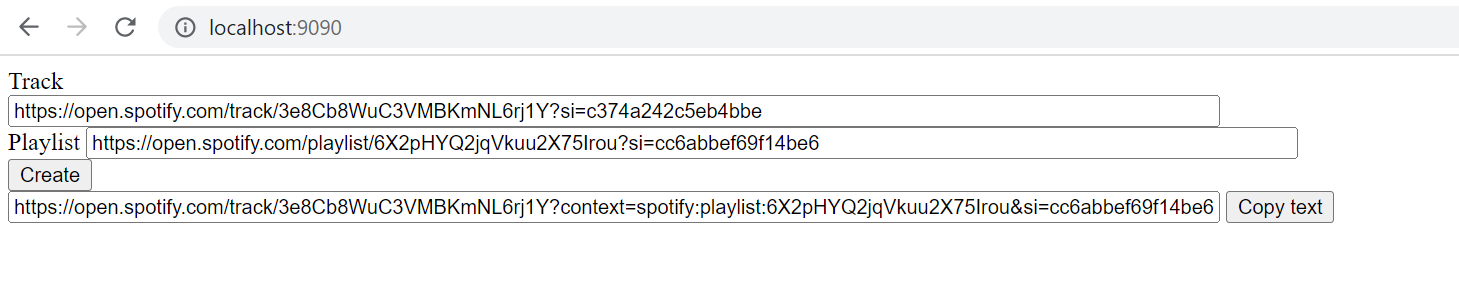
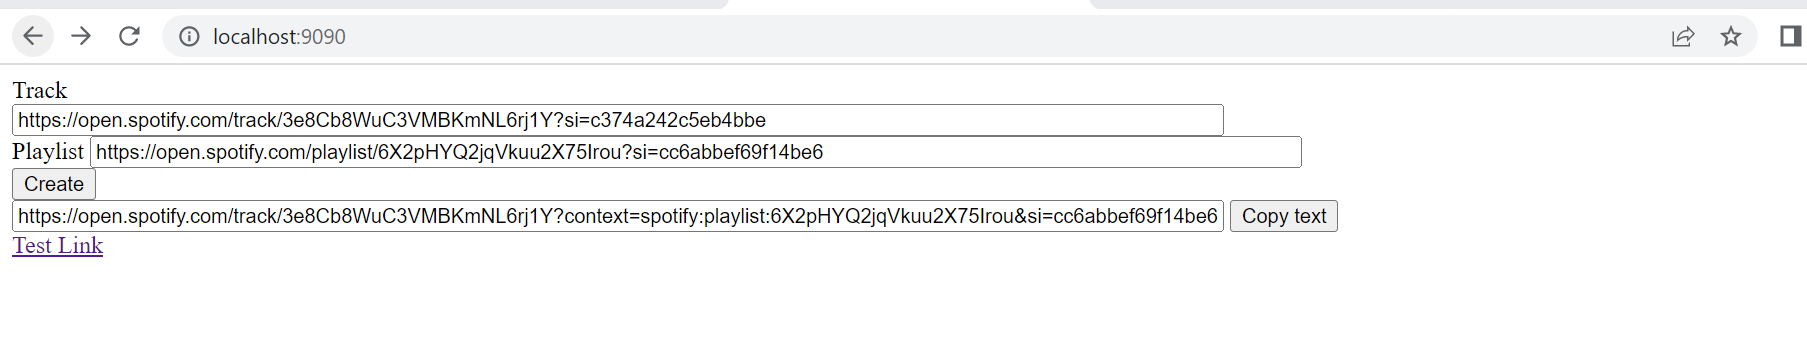
More

Changed region(s): [[0.0, 0.0623, 1.0, 0.7785], [0.0, 0.0623, 0.2467, 0.1246]]

diff --git a/index.html b/index.html
@@ -46,6 +46,9 @@
           result = GetTrackPlaylistUrl(playlist, track);
           resultElmt = document.getElementById("result")
           resultElmt.value = result
+
+          resultLink = document.getElementById("result_link")
+          resultLink.href = result
         }
     </script>
 </head>
@@ -64,6 +67,9 @@
     <div>
       <input type="text" id="result"></input>
       <button onclick="copyText()">Copy text</button>
+    </div>
+    <div>
+      <a id="result_link" href="">Test Link</a>
     </div>
 
 </body>
